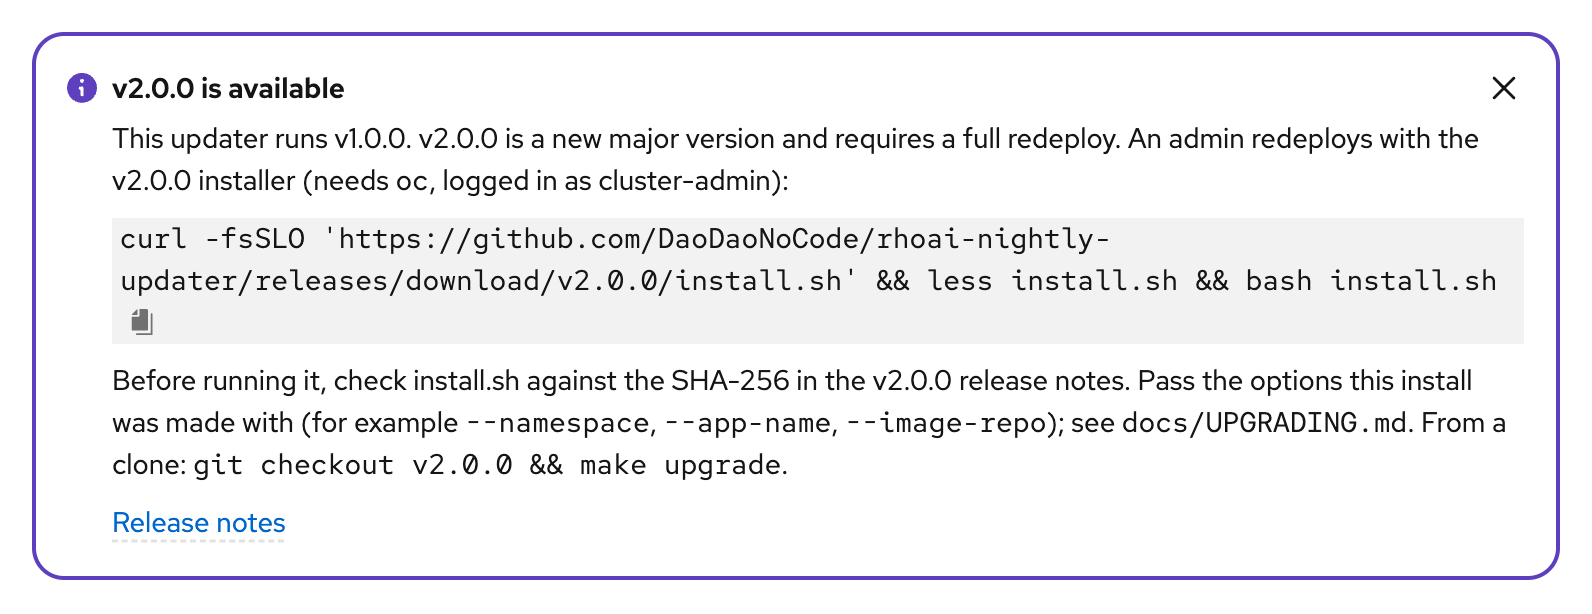
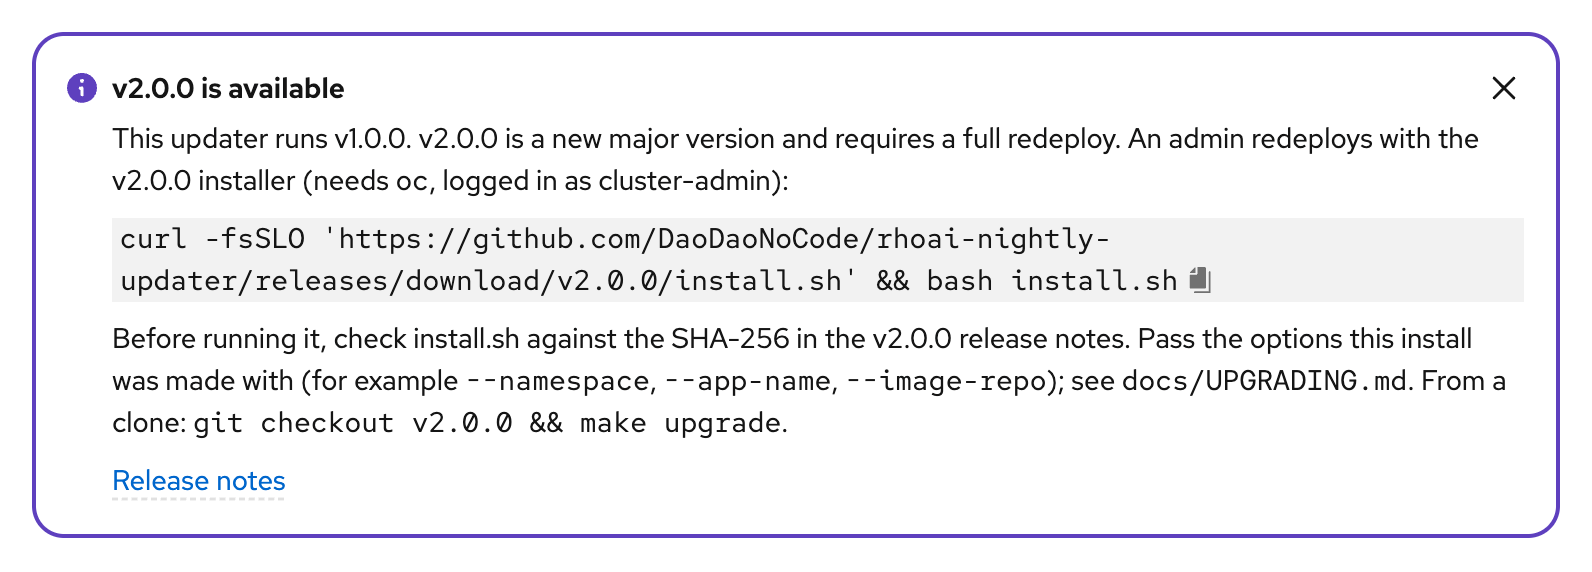
fix(update): the install commands no longer stop to page through install.sh
The update notice, README, QUICKSTART, UPGRADING and the release notes
had `less install.sh` between the download and the run: an extra step
nobody uses. The SHA-256 check stays where it was (the notice's command
checks the download against the release's checksum before it runs).

diff --git a/frontend/src/components/UpdateNotice.test.tsx b/frontend/src/components/UpdateNotice.test.tsx
@@ -60,7 +60,7 @@ describe("update available notice", () => {
     });
     expect(await screen.findByText("v2.0.1 is available")).toBeInTheDocument();
     expect(screen.getByText(/An admin upgrades with the v2.0.1 installer/)).toBeInTheDocument();
-    expect(screen.getByText(`curl -fsSLO '${installerURL}' && less install.sh && bash install.sh`)).toBeInTheDocument();
+    expect(screen.getByText(`curl -fsSLO '${installerURL}' && bash install.sh`)).toBeInTheDocument();
     expect(screen.getByRole("button", { name: "Copy the v2.0.1 install command" })).toBeInTheDocument();
     expect(screen.getByText("git checkout v2.0.1 && make upgrade")).toBeInTheDocument();
     expect(screen.queryByText(/full redeploy/)).not.toBeInTheDocument();
@@ -82,7 +82,7 @@ describe("update available notice", () => {
     });
     expect(await screen.findByText(/v3.0.0 is a new major version and requires a full redeploy/)).toBeInTheDocument();
     expect(screen.getByText(/An admin redeploys with the v3.0.0 installer/)).toBeInTheDocument();
-    expect(screen.getByText(`curl -fsSLO '${installerURL}' && less install.sh && bash install.sh`)).toBeInTheDocument();
+    expect(screen.getByText(`curl -fsSLO '${installerURL}' && bash install.sh`)).toBeInTheDocument();
     // Without a checksum from the backend, the notice points at the release notes' one.
     expect(screen.getByText(/Before running it, check install.sh against the SHA-256 in the v3.0.0 release notes/)).toBeInTheDocument();
     // A GitLab release asset may need a sign-in.
@@ -97,7 +97,7 @@ describe("update available notice", () => {
       update: async () => ({ current: "v2.0.0", latest: "v2.0.1", updateAvailable: true, majorUpgrade: false, installerURL, installerSHA256: sum }),
     });
     // sha256sum -c reads "<sum><two spaces><file>": compare without collapsing whitespace.
-    expect(await screen.findByText(`curl -fsSLO '${installerURL}' && echo '${sum}  install.sh' | sha256sum -c - && less install.sh && bash install.sh`,
+    expect(await screen.findByText(`curl -fsSLO '${installerURL}' && echo '${sum}  install.sh' | sha256sum -c - && bash install.sh`,
       { normalizer: getDefaultNormalizer({ collapseWhitespace: false }) })).toBeInTheDocument();
     expect(screen.getByText(/The command checks install.sh against the SHA-256 in the v2.0.1 release notes/)).toBeInTheDocument();
   });
@@ -108,7 +108,7 @@ describe("update available notice", () => {
       version: release("v2.0.0"),
       update: async () => ({ current: "v2.0.0", latest: "v2.0.1", updateAvailable: true, majorUpgrade: false, installerURL, installerSHA256: "$(id)" }),
     });
-    expect(await screen.findByText(`curl -fsSLO '${installerURL}' && less install.sh && bash install.sh`)).toBeInTheDocument();
+    expect(await screen.findByText(`curl -fsSLO '${installerURL}' && bash install.sh`)).toBeInTheDocument();
     expect(screen.queryByText(/\$\(id\)/)).not.toBeInTheDocument();
   });
 

diff --git a/frontend/src/components/GlobalBanners.tsx b/frontend/src/components/GlobalBanners.tsx
@@ -295,7 +295,7 @@ function useUpdateNotice(): Notice | null {
   // anything runs: a different file stops it at sha256sum.
   const sum = update.installerSHA256 && /^[0-9a-f]{64}$/.test(update.installerSHA256) ? update.installerSHA256 : "";
   const check = sum ? ` && echo '${sum}  install.sh' | sha256sum -c -` : "";
-  const installer = update.installerURL ? `curl -fsSLO '${update.installerURL}'${check} && less install.sh && bash install.sh` : "";
+  const installer = update.installerURL ? `curl -fsSLO '${update.installerURL}'${check} && bash install.sh` : "";
   return {
     key: "update",
     priority: 10,

diff --git a/docs/UPGRADING.md b/docs/UPGRADING.md
@@ -26,7 +26,6 @@ the notice shows the command to copy, for example
 
 ```bash
 curl -fsSLO https://github.com/DaoDaoNoCode/rhoai-nightly-updater/releases/download/v2.0.1/install.sh
-less install.sh                                     # read it first
 bash install.sh --dry-run                           # optional: validate only
 bash install.sh
 ```
@@ -214,7 +213,6 @@ From v1.0.0, or directly from V0, V1, V2 or a June build. Without a clone:
 
 ```bash
 curl -fsSLO https://github.com/DaoDaoNoCode/rhoai-nightly-updater/releases/download/v2.0.0/install.sh
-less install.sh                                     # read it first
 bash install.sh --dry-run --namespace $NS --app-name $APP
 bash install.sh --namespace $NS --app-name $APP
 ```
@@ -271,7 +269,6 @@ re-applied. The installer upgrades the existing install in place:
 
 ```bash
 curl -fsSLO https://github.com/DaoDaoNoCode/rhoai-nightly-updater/releases/download/v3.0.0/install.sh
-less install.sh                                     # read it first
 bash install.sh --dry-run --namespace $NS --app-name $APP
 bash install.sh --namespace $NS --app-name $APP
 ```

diff --git a/docs/QUICKSTART.md b/docs/QUICKSTART.md
@@ -34,11 +34,10 @@ Before your first change, read **[How the tool keeps your cluster safe](../READM
 
 Is the cluster's configuration applied by Argo CD from Git? Deploy the Helm chart instead and continue at step 2: [GITOPS.md](GITOPS.md).
 
-Download the latest release's `install.sh` (it contains that release's `deploy/template.yaml`) and read it before you run it:
+Download the latest release's `install.sh` (it contains that release's `deploy/template.yaml`):
 
 ```bash
 curl -fsSLO https://github.com/DaoDaoNoCode/rhoai-nightly-updater/releases/latest/download/install.sh
-less install.sh
 ```
 
 - **Check the download:** compare `sha256sum install.sh` (macOS: `shasum -a 256 install.sh`) with the SHA-256 in the release notes ([GitHub](https://github.com/DaoDaoNoCode/rhoai-nightly-updater/releases/latest), [GitLab](https://gitlab.com/redhat/ai/rhoai-dashboard-team/rhoai-nightly-updater/-/releases)).

diff --git a/README.md b/README.md
@@ -15,11 +15,10 @@ The RHOAI Nightly Updater is a web app that installs and updates Red Hat OpenShi
 
 ## Install
 
-Download the latest release's `install.sh`, read it, then run it. You need `oc` (logged in as cluster-admin) and `curl`:
+Download the latest release's `install.sh` and run it. You need `oc` (logged in as cluster-admin) and `curl`:
 
 ```bash
 curl -fsSLO https://github.com/DaoDaoNoCode/rhoai-nightly-updater/releases/latest/download/install.sh
-less install.sh
 bash install.sh --dry-run && bash install.sh
 ```
 
